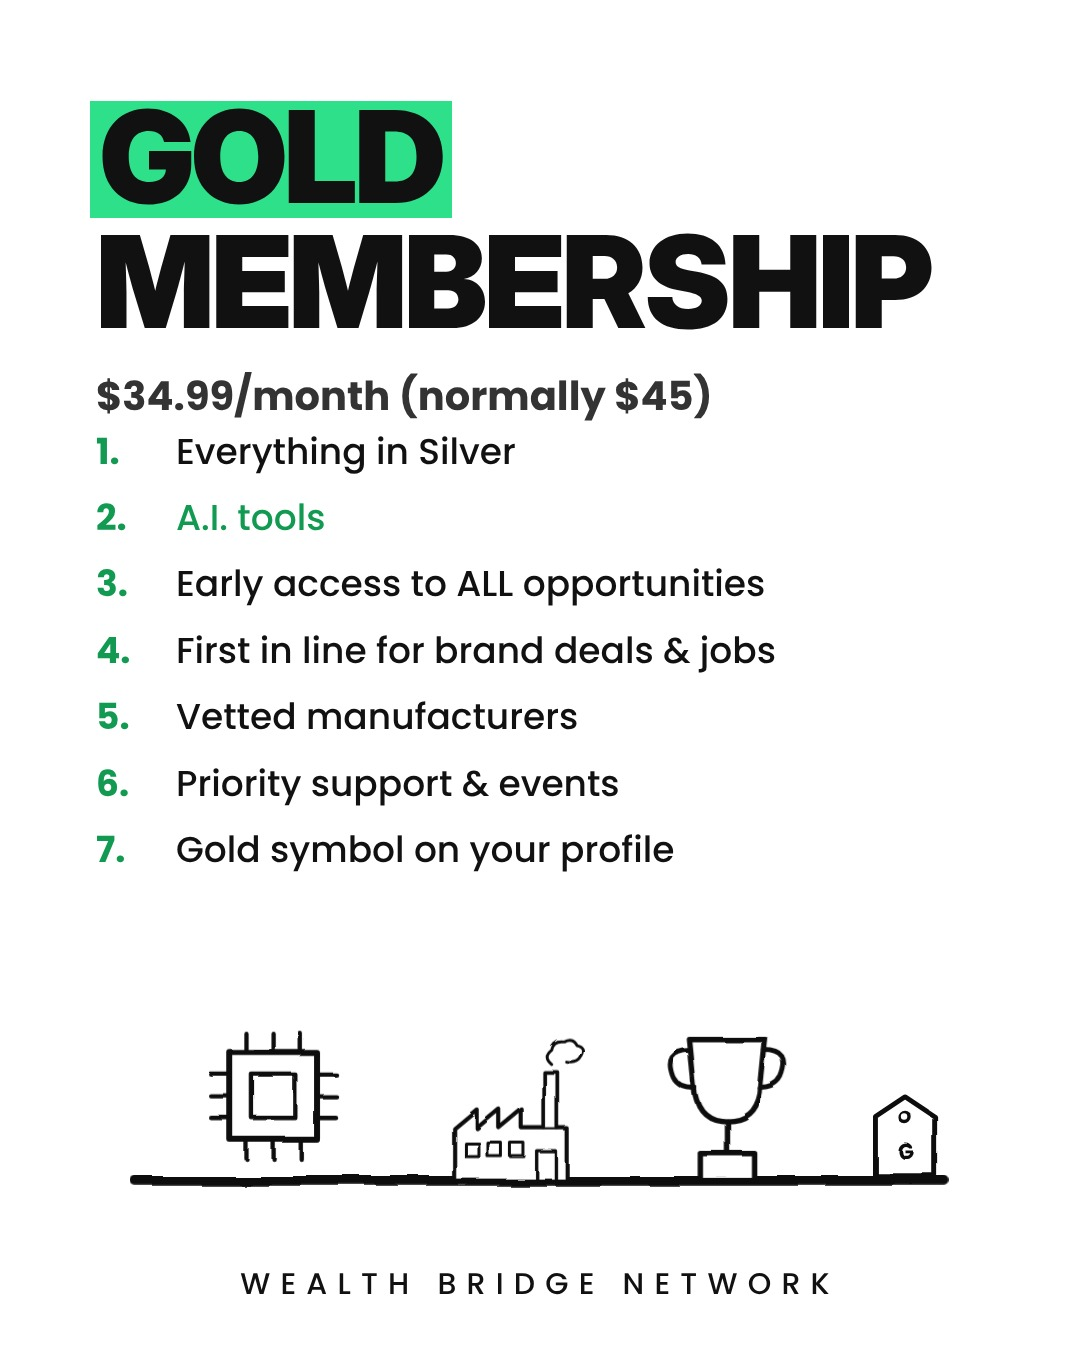
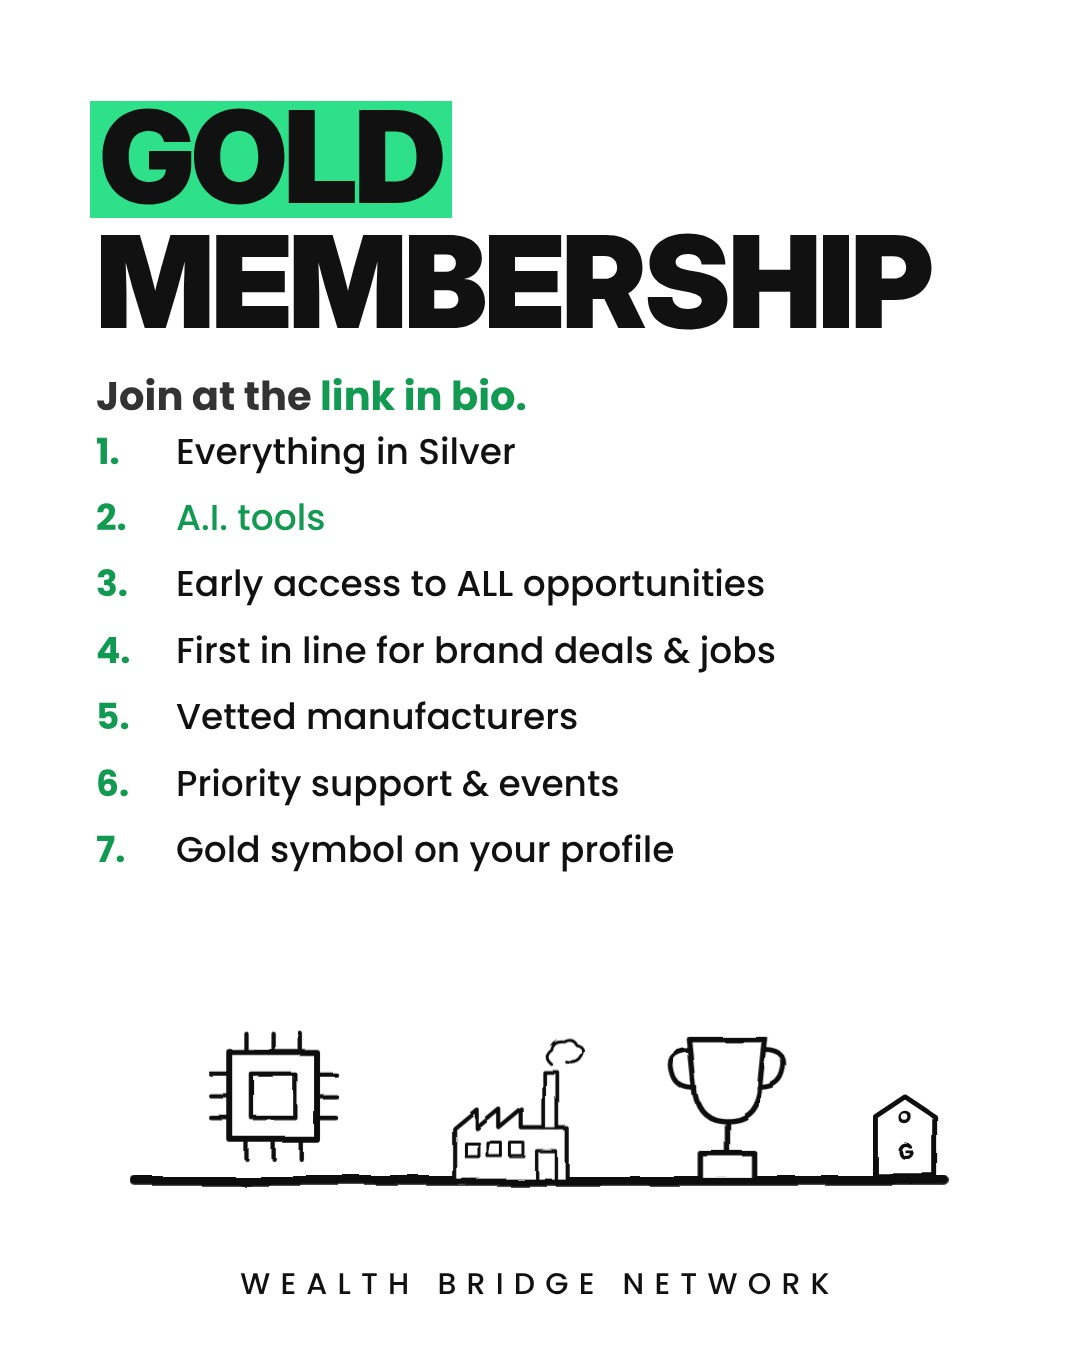
Membership carousel: remove prices, point to link in bio to join
Claude-Session: https://claude.ai/code/session_01XWHiAw1FC92SEhPtnn4Xv2

Changed region(s): [[0.0917, 0.28, 0.6722, 0.3111]]

diff --git a/content/membership.py b/content/membership.py
@@ -46,25 +46,27 @@ SM = {"is": 40}   # small perk text under the big tier name
 POSTS = [
 dict(id="m1-memberships", pillar="Membership", title="Join our network",
  caption=caption("Join the Wealth Bridge Network: Free, Silver, Gold and Green.",
-                 "Free: create an account, browse and get the newsletter. Silver ($12.99/mo): apartment listings, brand deals, jobs and universities, and member-only webinars. Gold ($34.99/mo): everything in Silver plus A.I. tools, early access to ALL opportunities and vetted manufacturers. Green (coming soon): list your company. Tap the link in bio to join.",
+                 "Free: create an account, browse and get the newsletter. Silver: apartment listings, brand deals, jobs and universities, and member-only webinars. Gold: everything in Silver plus A.I. tools, early access to ALL opportunities and vetted manufacturers. Green (coming soon): list your company. Go to the link in bio to join.",
                  "#ugccreator #branddeals #creatoreconomy #membership"),
  slides=[
  dict(hook="Join\nour\n*network.*", hs=172, swipe=True, kick="Free, Silver, Gold and Green.",
       scene=ground(40, 860, 300) + figure(160, 300, 0.75, "wave", "grin") + bridge(450, 300, 0.75, 360) + figure(740, 300, 0.75, "up", "grin", flip=True), vh=320),
- dict(hook="*Free*\nmembership", hs=128, kick="$0",
+ dict(hook="*Free*\nmembership", hs=128, kick="Join at the *link in bio.*",
       items=["Create your account", "Browse the network", "Access to the newsletter", "Limited features"], **SM,
       scene=icons(phone(200, 250, 0.6, "WBN"), magnifier(420, 250, 0.7), board(640, 250, 0.5, "NEWS")), vh=260, ah=260),
- dict(hook="*Silver*\nmembership", hs=128, kick="$12.99/month (normally $25)",
+ dict(hook="*Silver*\nmembership", hs=128, kick="Join at the *link in bio.*",
       items=["Apartment listings + maid, chef & nanny", "Weekly newsletter & updates", "Brand deals, jobs & universities",
              "Member-only webinars", "Silver symbol on your profile"], **SM,
       scene=icons(door(160, 250, 0.5), board(360, 250, 0.45, "NEWS"), laptop(580, 250, 0.45, "LIVE"), tag(780, 250, 0.5, "S")), vh=260, ah=230),
- dict(hook="*Gold*\nmembership", hs=128, kick="$34.99/month (normally $45)",
+ dict(hook="*Gold*\nmembership", hs=128, kick="Join at the *link in bio.*",
       items=["Everything in Silver", "*A.I. tools*", "Early access to ALL opportunities", "First in line for brand deals & jobs",
              "Vetted manufacturers", "Priority support & events", "Gold symbol on your profile"], **{"is": 36},
       scene=icons(chip(180, 225, 0.55), factory(420, 250, 0.38), trophy(640, 250, 0.55), tag(820, 250, 0.5, "G")), vh=260, ah=200),
- dict(hook="*Green*\nmembership", hs=128, kick="Coming soon · for companies",
+ dict(hook="*Green*\nmembership", hs=128, kick="Coming soon. Join the list at the *link in bio.*",
       items=["List your company", "Free for approved companies", "Green symbol on your company"], **SM,
       scene=icons(factory(200, 250, 0.45), board(450, 250, 0.55, "SOON"), tag(700, 250, 0.6, "✓")), vh=260, ah=260),
- cta("Ready to join?"),
+ dict(hook="Ready to\n*join?*", hs=150,
+      kick="Go to the *link in bio* to join the network.",
+      scene=ground(60, 840, 560) + figure(230, 560, 1.15, "point", "grin") + phone(600, 560, 1.4, "JOIN"), vh=580),
 ]),
 ]
